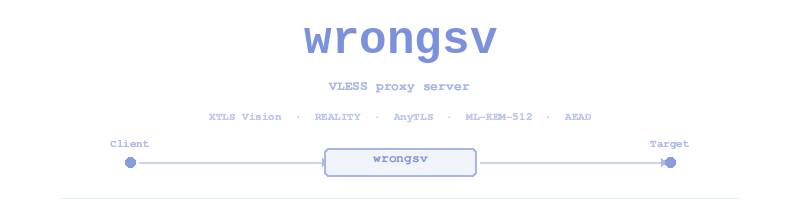
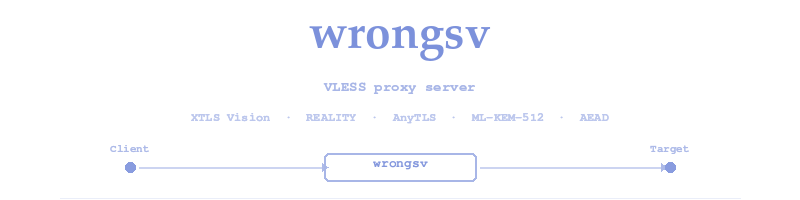
style: Pagella Bold title, larger sub/kw fonts, remove flow box fill

diff --git a/assets/generate_banner.py b/assets/generate_banner.py
@@ -1,4 +1,4 @@
-"""Generate wrongsv header banner — Liberation Mono title, equal row spacing."""
+"""Generate wrongsv header banner."""
 from PIL import Image, ImageDraw, ImageFont
 import os
 
@@ -12,9 +12,11 @@ img = Image.new("RGBA", (W, H), WHITE + (255,))
 draw = ImageDraw.Draw(img)
 
 # ── Fonts ─────────────────────────────────────────────────────────────────────
+# Title: TeX Gyre Pagella Bold — closest free alternative to Friz Quadrata
 TITLE_FONT = ImageFont.truetype(
-    "/usr/share/fonts/liberation-mono-fonts/LiberationMono-Bold.ttf", 46
+    "/usr/share/fonts/tex-gyre/texgyrepagella-bold.otf", 46
 )
+
 mono_path = None
 for fp in [
     "/usr/share/fonts/urw-base35/NimbusMonoPS-Bold.otf",
@@ -25,8 +27,8 @@ for fp in [
         mono_path = fp
         break
 
-sub_font = ImageFont.truetype(mono_path, 13)
-kw_font = ImageFont.truetype(mono_path, 11)
+sub_font = ImageFont.truetype(mono_path, 14)
+kw_font = ImageFont.truetype(mono_path, 12)
 flow_font = ImageFont.truetype(mono_path, 13)
 flow_sm = ImageFont.truetype(mono_path, 11)
 
@@ -45,21 +47,12 @@ keywords = "XTLS Vision  ·  REALITY  ·  AnyTLS  ·  ML-KEM-512  ·  AEAD"
 kb = draw.textbbox((0, 0), keywords, font=kw_font)
 kw_w = kb[2] - kb[0]
 
-# ── Explicit positions with generous anti-alias spacing ───────────────────────
-# 4 content rows: title, subtitle, keywords, flow-diagram
-# 200px total. Spacing between row anchors must account for:
-#   - bbox extent below anchor (tb[3], sb[3], etc.)
-#   - AA bleed (~12px for 46px font, ~6px for 13px, ~5px for 11px)
-
-# Positions tuned for roughly equal visual gaps (~20px each)
-# Title: bbox=(0,14,193,49) → drawn at 14 → visual 28..63
-# Sub:   bbox=(-1,0,141,11) → drawn at 82 → visual 82..93, gap=19
-# KW:    bbox=(0,0,383,10)  → drawn at 113 → visual 113..123, gap=20
-# Flow:  center at 162, label at 140, node at 162 → gap=17
-title_y = 14
-sub_y = 82
-kw_y = 113
-fl_y = 162  # flow center
+# ── Positions ─────────────────────────────────────────────────────────────────
+# Pagella Bold 46px: bbox=(0, 12, 182, 47), extent 47
+title_y = 14       # visual: 14+12=26 to 14+47=61
+sub_y = 82         # visual: 82..94   gap from title=21
+kw_y = 113         # visual: 113..124  gap from sub=19
+fl_y = 167         # label at 145     gap from kw=21
 
 # ── 1. Title ──────────────────────────────────────────────────────────────────
 draw.text((cx - title_w // 2, title_y), title, fill=ACCENT + (255,), font=TITLE_FONT)
@@ -73,7 +66,7 @@ draw.text((cx - kw_w // 2, kw_y), keywords, fill=ACCENT + (130,), font=kw_font)
 # ── 4. Flow diagram ───────────────────────────────────────────────────────────
 node_r = 5
 c_x, s_x, t_x = 130, 400, 670
-fc = fl_y  # center-y of flow nodes
+fc = fl_y
 
 # Client
 draw.ellipse([c_x - node_r, fc - node_r, c_x + node_r, fc + node_r], fill=ACCENT + (230,))
@@ -85,11 +78,11 @@ a1e = s_x - 78
 draw.line([(c_x + node_r + 4, fc), (a1e, fc)], fill=ACCENT + (100,), width=2)
 draw.polygon([(a1e, fc - 4), (a1e + 6, fc), (a1e, fc + 4)], fill=ACCENT + (160,))
 
-# Server box
+# Server box — outline only, no fill to avoid any background artifact
 s_w, s_h = 152, 28
 draw.rounded_rectangle(
     [(s_x - s_w // 2, fc - s_h // 2), (s_x + s_w // 2, fc + s_h // 2)],
-    radius=5, fill=ACCENT + (25,), outline=ACCENT + (170,), width=2
+    radius=5, outline=ACCENT + (170,), width=2
 )
 st = "wrongsv"
 draw.text((s_x - draw.textbbox((0, 0), st, font=flow_font)[2] // 2, fc - 8),
